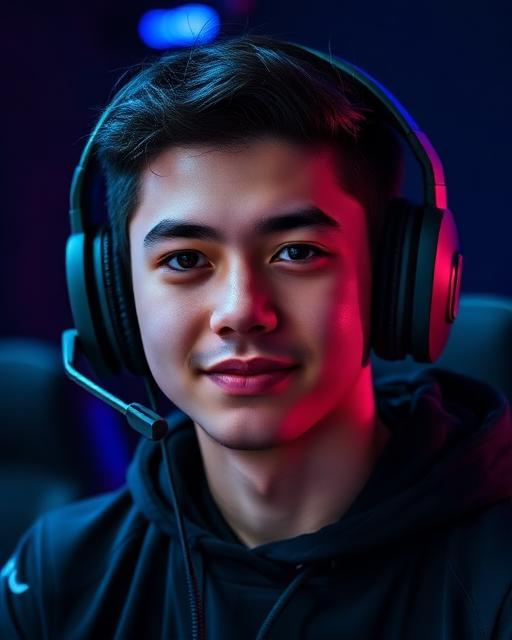
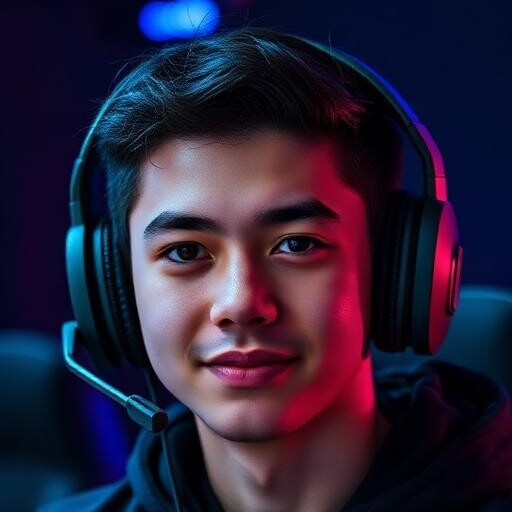
update team player roster and portraits

diff --git a/src/pages/Index.tsx b/src/pages/Index.tsx
@@ -26,6 +26,13 @@ import playerJohnny from "@/assets/player-johnny.jpg";
 import playerZozzflank from "@/assets/player-zozzflank.jpg";
 import playerTeddy from "@/assets/player-teddy.jpg";
 import playerThejaa from "@/assets/player-thejaa.png";
+import playerTyzar from "@/assets/player-tyzar.jpg";
+import playerDevin from "@/assets/player-devin.jpg";
+import playerBeliever from "@/assets/player-believer.jpg";
+import playerShaggy from "@/assets/player-shaggy.jpg";
+import playerSukuna from "@/assets/player-sukuna.jpg";
+import playerKai from "@/assets/player-kai.jpg";
+import playerSherry from "@/assets/player-sherry.jpg";
 import compRuiz from "@/assets/comp-ruiz.jpg";
 import compAcies from "@/assets/comp-acies.jpg";
 import compYoungblood from "@/assets/comp-youngblood.jpg";
@@ -58,20 +65,28 @@ const Index = () => {
 
   const leaders = [
     {
+      name: "Zira",
+      tagline: "Dances through danger, hits perfect.",
+      image: playerIzira,
+      role: "Team Leader",
+      stats: { kd: 3.9, kills: 2780, mpMatches: 21, brMatches: 16 },
+    },
+    {
+      name: "Believer",
+      tagline: "Believes in the squad, builds the wins.",
+      image: playerBeliever,
+      role: "Team Manager",
+      stats: {},
+    },
+  ];
+
+  const players = [
+    {
       name: "Lex",
       tagline: "Leads the charge, plans victory",
       image: playerLex,
       stats: { kd: 4.1, kills: 3020, mpMatches: 25, brMatches: 21 },
     },
-    {
-      name: "Stacy",
-      tagline: "Voice of focus under fire",
-      image: playerStacey,
-      stats: { managedCompetitions: 12, wins: 7, experience: "3 Years" },
-    },
-  ];
-
-  const players = [
     {
       name: "Dante",
       tagline: "The calm before clutch chaos.",
@@ -85,10 +100,10 @@ const Index = () => {
       stats: { kd: 3.2, kills: 1980, mpMatches: 15, brMatches: 10 },
     },
     {
-      name: "Zira",
-      tagline: "Dances through danger, hits perfect.",
-      image: playerIzira,
-      stats: { kd: 3.9, kills: 2780, mpMatches: 21, brMatches: 16 },
+      name: "Stacy",
+      tagline: "Voice of focus under fire",
+      image: playerStacey,
+      stats: { managedCompetitions: 12, wins: 7, experience: "3 Years" },
     },
     {
       name: "Satan",
@@ -125,6 +140,42 @@ const Index = () => {
       tagline: "Soft name, hard eliminations.",
       image: playerTeddy,
       stats: { kd: 3.3, kills: 2050, mpMatches: 12, brMatches: 9 },
+    },
+    {
+      name: "TYZAR",
+      tagline: "Rules the lobby with an iron aim.",
+      image: playerTyzar,
+      stats: {},
+    },
+    {
+      name: "Devin",
+      tagline: "Locks in, never blinks.",
+      image: playerDevin,
+      stats: {},
+    },
+    {
+      name: "Shaggy",
+      tagline: "Chill vibes, deadly aim.",
+      image: playerShaggy,
+      stats: {},
+    },
+    {
+      name: "Sukuna",
+      tagline: "Every lobby is cursed ground.",
+      image: playerSukuna,
+      stats: {},
+    },
+    {
+      name: "KAI",
+      tagline: "One stare, one squad wipe.",
+      image: playerKai,
+      stats: {},
+    },
+    {
+      name: "Sherry",
+      tagline: "Smooth entry, clean exit.",
+      image: playerSherry,
+      stats: {},
     },
   ];
 

diff --git a/src/components/PlayerCard.tsx b/src/components/PlayerCard.tsx
@@ -17,6 +17,7 @@ interface PlayerCardProps {
   tagline: string;
   image: string;
   stats: PlayerStats;
+  role?: string;
   isLeader?: boolean;
 }
 
@@ -25,6 +26,7 @@ const PlayerCard = ({
   tagline,
   image,
   stats,
+  role,
   isLeader = false,
 }: PlayerCardProps) => {
   const [isHovered, setIsHovered] = useState(false);
@@ -51,9 +53,9 @@ const PlayerCard = ({
         <div className="absolute bottom-0 left-0 right-0 p-6 z-10">
           <h3 className="text-2xl font-bold text-foreground mb-1">{name}</h3>
           <p className="text-sm text-primary italic mb-1">"{tagline}"</p>
-          {isLeader && (
+          {role && (
             <p className="text-xs text-muted-foreground uppercase tracking-wider">
-              {name === "Lex" ? "Team Leader" : "Team Manager"}
+              {role}
             </p>
           )}
         </div>
